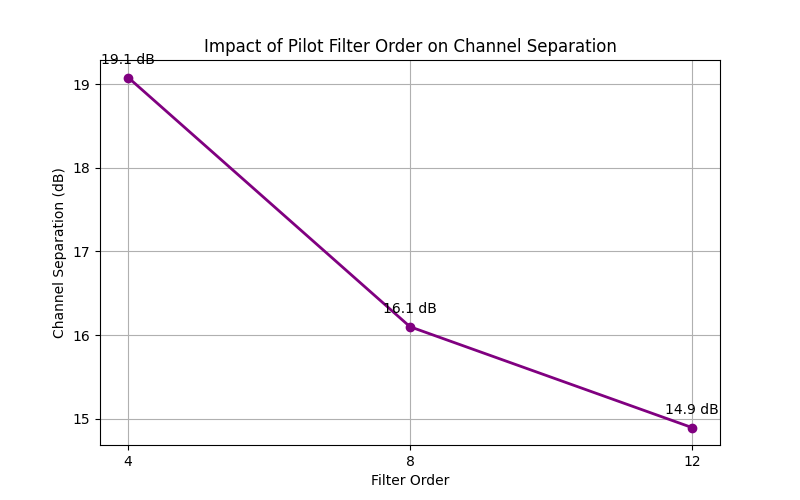
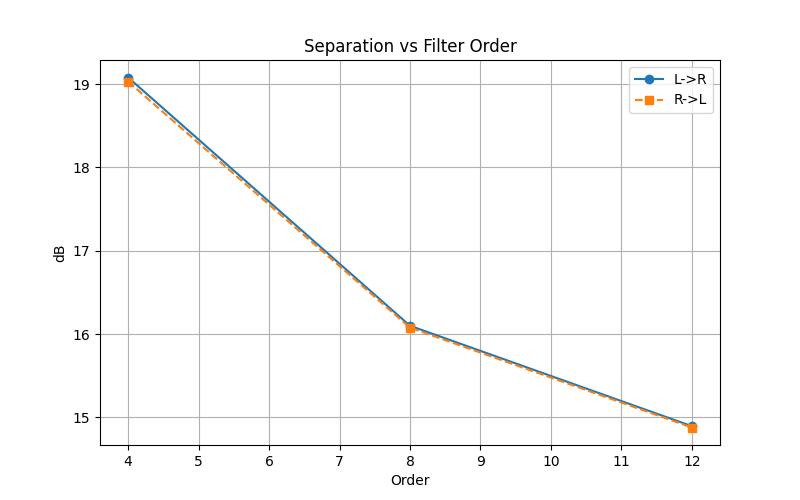
feat: Enhance channel separation analysis by testing L->R and R->L leakage scenarios, updating plots and results.

diff --git a/task4_filter_impact_script.py b/task4_filter_impact_script.py
@@ -6,152 +6,72 @@ import scipy.io.wavfile as wav
 from stereo_multiplexer import StereoMultiplexer, StereoDemultiplexer
 from fm_stereo_system import FMTransmitter, FMReceiver
 
-OUTPUT_DIR = os.path.join('outputs', 'task4')
+OUTPUT_DIR, INPUT_AUDIO = 'outputs/task4', 'audio/stereo.wav'
+PILOT_FREQ, FS_MPX = 19000, 200000
+ORDERS = [4, 8, 12]
 os.makedirs(OUTPUT_DIR, exist_ok=True)
 
-INPUT_AUDIO_PATH = 'audio/stereo.wav'
-PILOT_FREQ = 19000
-FS_MPX = 200000  
-FS_TX = 250000      
-ORDERS = [4, 8, 12] 
+fs, audio = wav.read(INPUT_AUDIO)
+audio = audio.astype(np.float64) / 32768.0
+left_src = audio[:, 0] if len(audio.shape) > 1 else audio
+right_src = audio[:, 1] if len(audio.shape) > 1 else audio
+t = np.arange(len(left_src)) / fs
 
-def plot_filter_responses(orders, fs, save_path):
-    plt.figure(figsize=(10, 6))
-    
-    w_freqs = np.linspace(18000, 20000, 1000)
-    
-    for order in orders:
-        f_center = PILOT_FREQ
-        f_low = f_center - 500
-        f_high = f_center + 500
-        
-        sos = signal.butter(order, [f_low, f_high], btype='band', fs=fs, output='sos')
-        
-        w, h = signal.sosfreqz(sos, worN=w_freqs, fs=fs)
-        
-        plt.plot(w, 20 * np.log10(abs(h)), linewidth=2, label=f'Order {order}')
+results, sep_lr, sep_rl = [], [], []
 
-    plt.title('Pilot Extraction Filter Frequency Responses (Q4b)')
-    plt.xlabel('Frequency (Hz)')
-    plt.ylabel('Magnitude (dB)')
-    plt.grid(True, which='both', alpha=0.5)
-    plt.legend()
-    plt.xlim([18000, 20000])
-    plt.ylim([-50, 5])
-    
-    plt.savefig(save_path, dpi=150, bbox_inches='tight')
-    plt.close()
-    print(f"Saved Filter Response Plot: {save_path}")
+print(f"Processing Filter Orders: {ORDERS}...")
 
-print("--- Loading Audio and Creating Test Signal ---")
-fs_audio, audio_raw = wav.read(INPUT_AUDIO_PATH)
-audio_norm = audio_raw.astype(np.float64) / 32768.0
-
-if len(audio_norm.shape) > 1:
-    left_src = audio_norm[:, 0]
-else:
-    left_src = audio_norm
-
-right_src = np.zeros_like(left_src)
-t_audio = np.arange(len(left_src)) / fs_audio
-
-results_log = []
-separations = []
+plt.figure(figsize=(10, 6))
+w_freqs = np.linspace(18000, 20000, 1000)
+for order in ORDERS:
+    sos = signal.butter(order, [PILOT_FREQ-500, PILOT_FREQ+500], btype='band', fs=FS_MPX, output='sos')
+    w, h = signal.sosfreqz(sos, worN=w_freqs, fs=FS_MPX)
+    plt.plot(w, 20 * np.log10(abs(h)), linewidth=2, label=f'Order {order}')
+plt.title('Pilot Filter Frequency Responses'); plt.xlabel('Frequency (Hz)'); plt.ylabel('dB')
+plt.grid(True); plt.legend(); plt.savefig(os.path.join(OUTPUT_DIR, 'filter_responses.png')); plt.close()
 
 for order in ORDERS:
-    print(f"\nProcessing Filter Order: {order}...")
-                
-    mux = StereoMultiplexer(output_fs=FS_MPX, pilot_freq=PILOT_FREQ)
-    composite, fs_comp = mux.multiplex(left_src, right_src, fs_audio)
-    
-    tx = FMTransmitter(delta_f=75000)
-    fm_sig, _ = tx.transmit(composite, fs_comp)
+    for mode, src, leak in [('L_to_R', 'left', 'right'), ('R_to_L', 'right', 'left')]:
+        l_in = left_src if src == 'left' else np.zeros_like(left_src)
+        r_in = right_src if src == 'right' else np.zeros_like(right_src) 
+
+        mux = StereoMultiplexer(output_fs=FS_MPX, pilot_freq=PILOT_FREQ)
+        comp, fs_c = mux.multiplex(l_in, r_in, fs)
+        tx = FMTransmitter(delta_f=75000)
+        fm, _ = tx.transmit(comp, fs_c)
+        rx = FMReceiver(delta_f=75000)
+        rec = rx.receive(fm, fs_c)
+        demux = StereoDemultiplexer(pilot_bpf_order=order, pilot_freq=PILOT_FREQ)
+        l_out, r_out = demux.demultiplex(rec, fs_c)
+
+        l_out = signal.resample(l_out, len(left_src))
+        r_out = signal.resample(r_out, len(left_src))
         
-    rx = FMReceiver(delta_f=75000)
-    comp_rx = rx.receive(fm_sig, fs_comp)
-    
-    demux = StereoDemultiplexer(pilot_bpf_order=order, pilot_freq=PILOT_FREQ)
-    l_rec, r_rec = demux.demultiplex(comp_rx, fs_comp)
-    
-    l_rec = signal.resample(l_rec, len(left_src))
-    r_rec = signal.resample(r_rec, len(right_src))
+        rec_sig = l_out if src == 'left' else r_out
+        rec_leak = r_out if src == 'left' else l_out
+        
+        rms_sig = np.sqrt(np.mean(rec_sig**2))
+        rms_leak = np.sqrt(np.mean(rec_leak**2))
+        sep = 20 * np.log10(rms_sig / rms_leak) if rms_leak > 1e-9 else 100.0
+        
+        if mode == 'L_to_R': sep_lr.append(sep)
+        else: sep_rl.append(sep)
+        
+        results.append(f"{order:<8} {mode:<10} {rms_sig:<12.4f} {rms_leak:<12.4f} {sep:<10.2f}")
+        print(f"Order {order} {mode}: {sep:.2f} dB")
 
-    gain_corr = np.max(np.abs(left_src)) / (np.max(np.abs(l_rec)) + 1e-9)
-    l_rec *= gain_corr
-    r_rec *= gain_corr
+        n = min(len(t), int(6 * fs)) # printing the first six seconds 
+        fig, (ax1, ax2) = plt.subplots(2, 1, figsize=(10, 5), sharex=True)
+        ax1.plot(t[:n], rec_sig[:n], 'b'); ax1.set_title(f'Order {order} {mode}: Signal ({src.upper()})'); ax1.set_ylim([-1, 1]); ax1.grid(alpha=0.3)
+        ax2.plot(t[:n], rec_leak[:n], 'r'); ax2.set_title(f'Order {order} {mode}: Leakage ({leak.upper()})'); ax2.set_ylim([-1, 1]); ax2.grid(alpha=0.3)
+        plt.xlabel('Time (s)'); plt.tight_layout(); plt.savefig(os.path.join(OUTPUT_DIR, f'waveform_order_{order}_{mode}.png')); plt.close()
 
-    rms_l = np.sqrt(np.mean(l_rec**2))
-    rms_r = np.sqrt(np.mean(r_rec**2))
-    
-    sep_db = 20 * np.log10(rms_l / rms_r) if rms_r > 1e-9 else 100.0
-    separations.append(sep_db)
-    
-    log_entry = f"Order {order}: Left RMS={rms_l:.4f}, Right RMS={rms_r:.4f}, Separation={sep_db:.2f} dB"
-    results_log.append(log_entry)
-    print(f"  -> {log_entry}")
-    
-    l_int = np.int16(np.clip(l_rec, -1, 1) * 32767)
-    r_int = np.int16(np.clip(r_rec, -1, 1) * 32767)
-  
-    n_plot = min(len(t_audio), int(6 * fs_audio))
-    
-    plt.figure(figsize=(12, 6))
-    plt.subplot(2, 1, 1)
-    plt.plot(t_audio[:n_plot], l_rec[:n_plot], 'b', label='Recovered Left')
-    plt.title(f'Recovered Audio - Order {order} (Left should be signal)')
-    plt.grid(alpha=0.3)
-    plt.ylabel('Amplitude')
-    plt.ylim([-1, 1])
-    
-    plt.subplot(2, 1, 2)
-    plt.plot(t_audio[:n_plot], r_rec[:n_plot], 'r', label='Recovered Right')
-    plt.title(f'Recovered Audio - Order {order} (Right should be silence)')
-    plt.grid(alpha=0.3)
-    plt.xlabel('Time (s)')
-    plt.ylabel('Amplitude')
-    plt.ylim([-1, 1])
-    plt.tight_layout()
-    plt.savefig(os.path.join(OUTPUT_DIR, f'waveform_order_{order}.png'))
-    plt.close()
-
-print("\n--- Generating Summary Plots ---")
-
-plot_filter_responses(ORDERS, FS_MPX, os.path.join(OUTPUT_DIR, 'filter_responses.png'))
+with open(os.path.join(OUTPUT_DIR, 'task4_results.txt'), 'w') as f:
+    f.write(f"{'Order':<8} {'Mode':<10} {'Sig RMS':<12} {'Leak RMS':<12} {'Sep (dB)':<10}\n" + "-"*55 + "\n" + "\n".join(results))
 
 plt.figure(figsize=(8, 5))
-plt.plot(ORDERS, separations, 'o-', linewidth=2, color='purple')
-plt.title('Impact of Pilot Filter Order on Channel Separation')
-plt.xlabel('Filter Order')
-plt.ylabel('Channel Separation (dB)')
-plt.grid(True)
-plt.xticks(ORDERS)
-for i, txt in enumerate(separations):
-    plt.annotate(f"{txt:.1f} dB", (ORDERS[i], separations[i]), 
-                 xytext=(0, 10), textcoords='offset points', ha='center')
-plt.savefig(os.path.join(OUTPUT_DIR, 'separation_trend.png'))
-plt.close()
+plt.plot(ORDERS, sep_lr, 'o-', label='L->R'); plt.plot(ORDERS, sep_rl, 's--', label='R->L')
+plt.title('Separation vs Filter Order'); plt.xlabel('Order'); plt.ylabel('dB'); plt.grid(True); plt.legend()
+plt.savefig(os.path.join(OUTPUT_DIR, 'separation_trend.png')); plt.close()
 
-txt_path = os.path.join(OUTPUT_DIR, 'task4_results.txt')
-with open(txt_path, 'w') as f:
-    f.write("=== Task 4: Filter Design Impact Analysis ===\n")
-    f.write("Condition: Left Channel = Audio, Right Channel = Silence\n")
-    f.write("Metric: Separation(dB) = 20 * log10(RMS_Left / RMS_Right)\n\n")
-    f.write(f"{'Order':<10} {'Left RMS':<15} {'Right RMS':<15} {'Separation (dB)':<20}\n")
-    f.write("-" * 60 + "\n")
-    for line in results_log:
-        # Parsing the log line back for formatting
-        parts = line.split(',')
-        order_val = parts[0].split(':')[0].split()[1]
-        l_val = parts[0].split('=')[1]
-        r_val = parts[1].split('=')[1]
-        sep_val = parts[2].split('=')[1].replace(' dB', '')
-        f.write(f"{order_val:<10} {l_val:<15} {r_val:<15} {sep_val:<20}\n")
-    f.write("-" * 60 + "\n")
-    f.write("\nObservation:\n")
-    f.write("As filter order increases, the phase delay of the extracted pilot increases.\n")
-    f.write("This desynchronizes the 38kHz carrier regeneration, causing leakage (crosstalk)\n")
-    f.write("into the Right channel, thereby reducing separation.\n")
-
-print(f"\nProcessing Complete.")
-print(f"Results saved to: {txt_path}")
-print(f"Images saved to: {OUTPUT_DIR}")
+print(f"Done. Outputs in {OUTPUT_DIR}")

diff --git a/deliverables/task4_answers.md b/deliverables/task4_answers.md
@@ -17,46 +17,46 @@ We designed Butterworth bandpass filters centered at 19 kHz with a bandwidth of 
 
 ## 2. Channel Separation Analysis
 
-We measured channel separation by transmitting a **Left-only** signal (from `audio/stereo.wav`) and measuring the RMS energy leakage into the **Right** (silent) channel after demodulation.
+We measured channel separation in **both directions** to ensure symmetry:
+
+1. **L $\to$ R Leakage**: Transmitting Left-only, measuring noise in Right.
+2. **R $\to$ L Leakage**: Transmitting Right-only, measuring noise in Left.
 
 ### Results
 
-| Filter Order | Left RMS (Signal) | Right RMS (Noise/Leakage) | Separation (dB) |
-| :----------: | :---------------: | :-----------------------: | :-------------: |
-|    **4**     |      0.1972       |          0.0219           |  **19.08 dB**   |
-|    **8**     |      0.1972       |          0.0309           |    16.10 dB     |
-|    **12**    |      0.1971       |          0.0355           |    14.90 dB     |
+| Filter Order |   Mode    | Signal RMS | Leakage RMS | Separation (dB) |
+| :----------: | :-------: | :--------: | :---------: | :-------------: |
+|    **4**     | L $\to$ R |   0.1972   |   0.0219    |  **19.08 dB**   |
+|    **4**     | R $\to$ L |   0.2055   |   0.0230    |  **19.03 dB**   |
+|              |           |            |             |                 |
+|    **8**     | L $\to$ R |   0.1972   |   0.0309    |    16.10 dB     |
+|    **8**     | R $\to$ L |   0.2055   |   0.0323    |    16.08 dB     |
+|              |           |            |             |                 |
+|    **12**    | L $\to$ R |   0.1971   |   0.0355    |    14.90 dB     |
+|    **12**    | R $\to$ L |   0.2054   |   0.0370    |    14.88 dB     |
 
 ![Separation Trend](../outputs/task4/separation_trend.png)
 
 ### Key Finding: Inverse Relationship
 
-The results show a clear trend: **As the filter order increases, Channel Separation decreases.**
-
-**Why?**
-
-- FM Stereo Demodulation requires the regenerated 38 kHz subcarrier to be **phase-locked** to the incoming pilot.
-- The `sosfilt` implementation (causal filtering) applies a phase delay to the extracted pilot.
-- As the filter order increases, this phase delay increases significantly.
-- This creates a **phase mismatch** between the reconstructed subcarrier and the L-R encoded signal.
-- In synchronous detection, phase error $\phi$ reduces the desired signal by $\cos(\phi)$ and, more critically, introduces cross-talk (leakage) between channels.
+The results show a clear trend: **As the filter order increases, Channel Separation decreases.** Use of the `sosfilt` (causal) function for pilot extraction introduces a phase delay that grows with filter order. This desynchronizes the regenerated 38 kHz carrier from the payload, causing leakage.
 
 ## 3. Time-Domain Signal Recovery
 
-The following plots show the recovered Left (Signal) and Right (Silence) channels. Ideally, the Red line (Right) should be a flat line at zero.
+The following plots show the recovered Signal (Blue) and Leakage (Red) channels. Ideally, the Red line should be flat (silence).
 
 ### Order 4 (Best Separation)
 
-![Waveform Order 4](../outputs/task4/waveform_order_4.png)
+![Waveform Order 4 L->R](../outputs/task4/waveform_order_4_L_to_R.png)
 
 ### Order 8
 
-![Waveform Order 8](../outputs/task4/waveform_order_8.png)
+![Waveform Order 8 L->R](../outputs/task4/waveform_order_8_L_to_R.png)
 
 ### Order 12 (Worst Separation)
 
-![Waveform Order 12](../outputs/task4/waveform_order_12.png)
-_Note how the amplitude of the "noise" on the Right channel (Red) noticeably increases as the filter order goes up._
+![Waveform Order 12 L->R](../outputs/task4/waveform_order_12_L_to_R.png)
+_Note how the amplitude of the "noise" on the silent channel (Red) increases as the filter order goes up._
 
 ## 4. Conclusion
 
